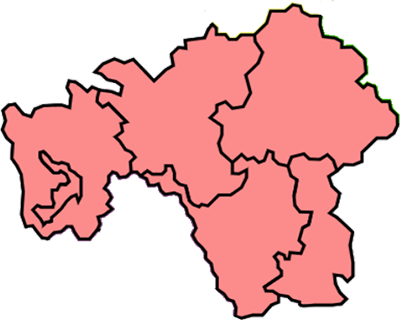
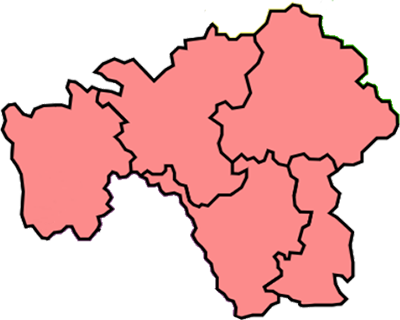
Доработки для виджета карты (задача №602)

Changed region(s): [[0.06, 0.4688, 0.21, 0.7188]]

diff --git a/app/webroot/css/regions-map.css b/app/webroot/css/regions-map.css
@@ -30,8 +30,8 @@
     background-size: contain;
     display: none;
     position: absolute;
-    left: 9px;
-    top: 289px;
+    left: 11px;
+    top: 291px;
     width: 40px;
     height: 60px;
     z-index: 1;

diff --git a/app/Controller/AdminMarkersController.php b/app/Controller/AdminMarkersController.php
@@ -1,0 +1,39 @@
+<?php
+App::uses('AdminController', 'Controller');
+App::uses('AppModel', 'Model');
+App::uses('Subdomain', 'Model');
+App::uses('Region', 'Model');
+class AdminMarkersController extends AdminController {
+    public $name = 'AdminMarkers';
+    public $components = array('Auth', 'Table.PCTableGrid', 'Article.PCArticle');
+    public $uses = array('Marker', 'Subdomain', 'Region');
+
+	public function beforeRender() {
+		parent::beforeRender();
+		$this->set('objectType', 'Marker');
+		$this->set('aRegions', $this->Region->getOptions());
+	}
+
+	public function index() {
+		$this->paginate = array(
+			'fields' => array('title', 'region_id', 'url'),
+			'order' => array('region_id' => 'ASC')
+		);
+		$this->PCTableGrid->paginate('Marker');
+		$this->currMenu = 'Settings';
+	}
+
+	public function edit($id = 0) {
+		if ($this->request->is(array('put', 'post'))) {
+			$this->Marker->save($this->request->data);
+			$id = $this->Marker->id;
+			$baseRoute = array('action' => 'index');
+			return $this->redirect(($this->request->data('apply')) ? $baseRoute : array($id));
+		} else {
+			$this->request->data = $this->Marker->findById($id);
+		}
+
+		$this->currMenu = 'Settings';
+	}
+}
+

diff --git a/app/View/Helper/ObjectTypeHelper.php b/app/View/Helper/ObjectTypeHelper.php
@@ -22,6 +22,7 @@ class ObjectTypeHelper extends AppHelper {
                 'Subdomain' => __('Subdomains'),
                 'MachineTool' => __('Machine tools'),
                 'Region' => __('Regions'),
+                'Marker' => __('Markers')
             ), 
             'create' => array(
                 'Article' => __('Create Article'),
@@ -39,6 +40,7 @@ class ObjectTypeHelper extends AppHelper {
                 'Subdomain' => __('Create subdomain'),
                 'MachineTool' => __('Create machine tool'),
                 'Region' => __('Create region'),
+                'Marker' => __('Create marker')
             ),
             'edit' => array(
                 'Article' => __('Edit Article'),
@@ -56,6 +58,7 @@ class ObjectTypeHelper extends AppHelper {
                 'Subdomain' => __('Edit subdomain'),
                 'MachineTool' => __('Edit machine tool'),
                 'Region' => __('Edit region'),
+                'Marker' => __('Edit marker')
             ),
             'view' => array(
             	'Article' => __('View Article'),

diff --git a/app/Controller/PagesController.php b/app/Controller/PagesController.php
@@ -7,7 +7,7 @@ App::uses('SiteArticle', 'Model');
 App::uses('Region', 'Model');
 class PagesController extends AppController {
 	public $name = 'Pages';
-	public $uses = array('Page', 'News', 'Region');
+	public $uses = array('Page', 'News', 'Region', 'Marker');
 	public $helpers = array('ArticleVars', 'Media.PHMedia', 'Core.PHTime', 'Media');
 
 	public function home() {
@@ -33,9 +33,9 @@ class PagesController extends AppController {
 		$this->seo = $aArticle['Seo'];
 
 		$aRegions = Hash::combine($this->Region->find('all'), '{n}.Region.id', '{n}.Region');
-		$aSubdomains = $this->Subdomain->find('all');
-		$aSubdomains = Hash::combine($aSubdomains, '{n}.Subdomain.id', '{n}.Subdomain', '{n}.Subdomain.region_id'); // group by region
-		$this->set(compact('aRegions', 'aSubdomains'));
+		$aMarkers = $this->Marker->find('all');
+		$aMarkers = Hash::combine($aMarkers, '{n}.Marker.id', '{n}.Marker', '{n}.Marker.region_id'); // group by region
+		$this->set(compact('aRegions', 'aMarkers'));
 	}
 	
 	public function show($slug) {

diff --git a/app/Controller/AdminController.php b/app/Controller/AdminController.php
@@ -52,7 +52,8 @@ class AdminController extends AppController {
 				'PriceSettings' => array('label' => __('Prices'), 'href' => array('controller' => 'AdminSettings', 'action' => 'prices')),
 				'SectionSettings' => array('label' => __('Sectionizer'), 'href' => array('controller' => 'AdminSections', 'action' => 'index')),
 				'Regions' => array('label' => __('Regions'), 'href' => array('controller' => 'AdminRegions', 'action' => 'index')),
-				'Subdomains' => array('label' => __('Subdomains'), 'href' => array('controller' => 'AdminSubdomains', 'action' => 'index'))
+				'Subdomains' => array('label' => __('Subdomains'), 'href' => array('controller' => 'AdminSubdomains', 'action' => 'index')),
+				'Markers' => array('label' => __('Markers'), 'href' => array('controller' => 'AdminMarkers', 'action' => 'index'))
 			))
 		);
 		$this->aBottomLinks = $this->aNavBar;

diff --git a/app/Model/Marker.php b/app/Model/Marker.php
@@ -1,0 +1,5 @@
+<?
+App::uses('AppModel', 'Model');
+class Marker extends AppModel {
+
+}
